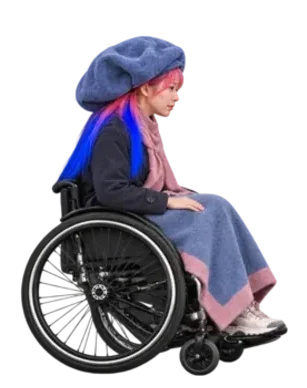
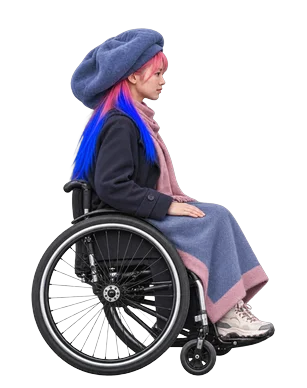
歩行: C002車椅子right-3・C003小学生upright-3を反転なしで生成し直し (R7, #204) (#221)
* 歩行: C002青年車椅子right-3・C003小学生upright-3を反転なしで画像生成し直し (#204)

* 台帳: R7 の2コマ(sha256・来歴・素材更新AUP-225,226)とdocsを更新 (#204)

Changed region(s): [[0.0586, 0.0619, 0.9381, 0.9897]]

diff --git a/docs/ledger/views/content.md b/docs/ledger/views/content.md
@@ -1660,7 +1660,7 @@ uv run python3 scripts/content_ledger_views.py build で更新する。
 | A-886 | C002 | 人物ポーズ候補 | assets/images/characters/C002/walk/C002-adult-wheelchair-walk-left-3.webp | 現存（採否未照合） | 2026-10-27 | 上流 d469045 の現存ファイル。出典: origin/main@d469045:assets/images/characters/C002/walk/C002-adult-wheelchair-walk-left-3.webp。採用判定は出典の明示範囲に限る。 | 0995f3ce73c8e71b04e6316669f28bc790f447a688bb1dfe73c1bbbec61ab8ca |  |
 | A-887 | C002 | 人物ポーズ候補 | assets/images/characters/C002/walk/C002-adult-wheelchair-walk-right-1.webp | 現存（採否未照合） | 2026-10-27 | 上流 d469045 の現存ファイル。出典: origin/main@d469045:assets/images/characters/C002/walk/C002-adult-wheelchair-walk-right-1.webp。採用判定は出典の明示範囲に限る。 | 518be664f96152aecf67e823456eef613bea01ed44de4fe69820945fa795a5a0 |  |
 | A-888 | C002 | 人物ポーズ候補 | assets/images/characters/C002/walk/C002-adult-wheelchair-walk-right-2.webp | 現存（採否未照合） | 2026-10-27 | 上流 d469045 の現存ファイル。出典: origin/main@d469045:assets/images/characters/C002/walk/C002-adult-wheelchair-walk-right-2.webp。採用判定は出典の明示範囲に限る。 | 571a41e14b1c5cffc0f7994bb970c3a86f7fd5acf293ebaadd414c16e05d190c |  |
-| A-889 | C002 | 人物ポーズ候補 | assets/images/characters/C002/walk/C002-adult-wheelchair-walk-right-3.webp | 現存（採否未照合） | 2026-10-27 | 上流 d469045 の現存ファイル。出典: origin/main@d469045:assets/images/characters/C002/walk/C002-adult-wheelchair-walk-right-3.webp。採用判定は出典の明示範囲に限る。 | a36adabc96ee4a20930964c456c049b64f0d6734d5df09359283b3f8bdfc45f3 |  |
+| A-889 | C002 | 人物ポーズ候補 | assets/images/characters/C002/walk/C002-adult-wheelchair-walk-right-3.webp | 現存（採否未照合） | 2026-10-27 | 上流 d469045 の現存ファイル。出典: origin/main@d469045:assets/images/characters/C002/walk/C002-adult-wheelchair-walk-right-3.webp。採用判定は出典の明示範囲に限る。 2026-11-04 Issue #204 R7: 反転なし画像生成。レビュー済み。左向き3の水平反転と一致していたミラー残存を解消し、右向きとして生成し直した(位相の見本=左向き3の手位置、同一性=マスターと右向き1) | b466b072d70ff017e016a699b8585cd52a24fa4fa304bb046b975790eddd00de |  |
 | A-890 | C002 | 人物ポーズ候補 | assets/images/characters/C002/walk/C002-adult-wheelchair-walk-up-1.webp | 現存（採否未照合） | 2026-10-27 | 上流 d469045 の現存ファイル。出典: origin/main@d469045:assets/images/characters/C002/walk/C002-adult-wheelchair-walk-up-1.webp。採用判定は出典の明示範囲に限る。 | d0ea89d84a60f843f2e57a695d9adcba176c9d77c2f69b1888f510625a6d87af |  |
 | A-891 | C002 | 人物ポーズ候補 | assets/images/characters/C002/walk/C002-adult-wheelchair-walk-up-2.webp | 現存（採否未照合） | 2026-10-27 | 上流 d469045 の現存ファイル。出典: origin/main@d469045:assets/images/characters/C002/walk/C002-adult-wheelchair-walk-up-2.webp。採用判定は出典の明示範囲に限る。 | b30e197a18b10720dbce8e0977d0bc87b9617522a20fa1c6ab6138bbc0949249 |  |
 | A-892 | C002 | 人物ポーズ候補 | assets/images/characters/C002/walk/C002-adult-wheelchair-walk-up-3.webp | 現存（採否未照合） | 2026-10-27 | 上流 d469045 の現存ファイル。出典: origin/main@d469045:assets/images/characters/C002/walk/C002-adult-wheelchair-walk-up-3.webp。採用判定は出典の明示範囲に限る。 | 2b11fea50e4bd76bb1eda6fb7efbe93b7cc53a5b9381e4c7757774731cdd37e0 |  |
@@ -1938,7 +1938,7 @@ uv run python3 scripts/content_ledger_views.py build で更新する。
 | A-1164 | C003 | characters | assets/images/characters/C003/walk/C003-elementary-walk-upleft-3.webp | 採用 | 2026-10-30 | 歩行スプライト正本に採用（kako-jun 指示 2026-11-03、Issue #204）。旧パス assets/images/characters/shared/direction-candidates/C003-elementary-upleft-3-method-pilot.webp（候補名 method-pilot）。選択理由: 同一コマの候補はこの1版のみ。 | c349639673da434e11543b69b1fb8800eb404c3770d9553ae6bd194401d423da |  |
 | A-1165 | C003 | characters | assets/images/characters/C003/walk/C003-elementary-walk-upright-1.webp | 採用 | 2026-10-30 | 歩行スプライト正本に採用（kako-jun 指示 2026-11-03、Issue #204）。旧パス assets/images/characters/shared/direction-candidates/C003-elementary-upright-1-method-pilot.webp（候補名 method-pilot）。選択理由: 同一コマの候補はこの1版のみ。 2026-11-04 Issue #204: 左右反転コピーを廃し、右向きとして画像生成し直した(反転なし。独立画像レビューで合格)。位相の見本=元の左斜め、同一性=マスター | edafd0e157dc48acc02cfe0ddfdab1c743b3a579e984512ed9b337e82fbf2dff |  |
 | A-1166 | C003 | characters | assets/images/characters/C003/walk/C003-elementary-walk-upright-2.webp | 採用 | 2026-10-30 | 歩行スプライト正本に採用（kako-jun 指示 2026-11-03、Issue #204）。旧パス assets/images/characters/shared/direction-candidates/C003-elementary-upright-2-method-pilot.webp（候補名 method-pilot）。選択理由: 同一コマの候補はこの1版のみ。 2026-11-04 Issue #204: 左右反転コピーを廃し、右向きとして画像生成し直した(反転なし。独立画像レビューで合格)。位相の見本=元の左斜め、同一性=マスター | 766ace06ffa59cd8e6129640458014113a553c2ea4f71dd49dcb88a2e7b23c61 |  |
-| A-1167 | C003 | characters | assets/images/characters/C003/walk/C003-elementary-walk-upright-3.webp | 採用 | 2026-10-30 | 歩行スプライト正本に採用（kako-jun 指示 2026-11-03、Issue #204）。旧パス assets/images/characters/shared/direction-candidates/C003-elementary-upright-3-method-pilot.webp（候補名 method-pilot）。選択理由: 同一コマの候補はこの1版のみ。 2026-11-04 Issue #204: 左右反転コピーを廃し、右向きとして画像生成し直した(反転なし。独立画像レビューで合格)。位相の見本=元の左斜め、同一性=マスター | 61e4d191d534ddda0a47528e9ba5ba9d7d081a1249435049e3c484b22fcf5e7d |  |
+| A-1167 | C003 | characters | assets/images/characters/C003/walk/C003-elementary-walk-upright-3.webp | 採用 | 2026-10-30 | 歩行スプライト正本に採用（kako-jun 指示 2026-11-03、Issue #204）。旧パス assets/images/characters/shared/direction-candidates/C003-elementary-upright-3-method-pilot.webp（候補名 method-pilot）。選択理由: 同一コマの候補はこの1版のみ。 2026-11-04 Issue #204: 左右反転コピーを廃し、右向きとして画像生成し直した(反転なし。独立画像レビューで合格)。位相の見本=元の左斜め、同一性=マスター 2026-11-04 Issue #204 R7: 反転なし画像生成。レビュー済み。両足が揃った立ち姿から両足が出た歩きに修正した。コマ1との位相差は、斜め後ろ向きのため静止画では限定的(位相の見本=左斜め3、サイズ・ヨー=同形態コマ2、人物=マスター) | 3764cd2825d803c2a5437d56fce5f39402b01e7946482b4bd1875ae9b96e7222 |  |
 | A-1168 | C003 | characters | assets/images/characters/C003/walk/C003-walk-downleft-1.webp | 採用 | 2026-10-30 | 歩行スプライト正本に採用（kako-jun 指示 2026-11-03、Issue #204）。旧パス assets/images/characters/shared/direction-candidates/C003-kindergarten-downleft-1-method-pilot.webp（候補名 method-pilot）。選択理由: 同一コマの候補はこの1版のみ。 | 3c7a156705c7f1e231d58cf94feab5c8413461fac22db8a8b378e6d13ea9a4f2 |  |
 | A-1169 | C003 | characters | assets/images/characters/C003/walk/C003-walk-downleft-2.webp | 採用 | 2026-10-30 | 歩行スプライト正本に採用（kako-jun 指示 2026-11-03、Issue #204）。旧パス assets/images/characters/shared/direction-candidates/C003-kindergarten-downleft-2-method-pilot.webp（候補名 method-pilot）。選択理由: 同一コマの候補はこの1版のみ。 2026-11-04 Issue #204: 垂直平行移動のみ(接地ライン揃え、-9px)、描画・拡縮・反転なし | d1f171d2686e98ddf57421c770de426dbc25115b240763cc24ccbd9dee6b4f60 |  |
 | A-1170 | C003 | 人物ポーズ候補 | assets/images/characters/shared/direction-candidates/C003-kindergarten-downleft-3-method-pilot-v2.webp | 候補 | 2026-10-30 | 不採用（同一コマに採用版あり: C003-kindergarten-downleft-3-method-pilot-v3.webp → 正本 assets/images/characters/C003/walk/C003-walk-downleft-3.webp）。歩行方向候補として元の場所に残置。2026-11-03 Issue #204 | 53a9def72b62dcc09c5370ad40922da29080fb96dddae6b1ff92e5a655c4ea39 |  |

diff --git a/docs/assets-policy.md b/docs/assets-policy.md
@@ -67,7 +67,7 @@
 - 斜め歩きのカメラは人物の向きから独立させる。俯瞰にずれた斜め画像は採用せず、ユーザー指定があれば子どもの目線・水平0°のカメラで、人物だけを地面上で45°回す（2026-10-24）。同方向1×3で頭身・ヨーを合わせ、位相が重なった場合は通過位相の中央コマをカメラ/ヨー/画面内サイズの土台、同年齢・同番号の正面/背面コマを歩行位相、年齢マスターを人物・衣装の正本として個別編集する。個別編集ではframe1とframe3が同じ接地歩幅へ収束しやすいため、3コマを最終キャンバスで比較する。frame3がframe1を反復したら、同年齢・同番号ソースを位相正本にして脚だけ修正する。4×3グリッドと方向別1×3ストリップでヨーまたは位相が2コマ続けて崩れた場合は、採用済みの同方向土台・同番号位相ソース・年齢masterを使う1枚ずつの生成へ切り替える。脚だけの修正でヨーが正面へ戻った場合は、脚の位相を固定して頭・首・胴だけヨーを戻す。位相はrawだけでなく最終サイズの白/暗色合成で判定し、特に後ろ斜めでは縮小後の靴間隔で通過位相がストライドに見えないか確認する。靴底が見える脚は画面左右でなく参照の解剖学的左右と支持脚で指定する。alpha=0画素のRGBはプレビューで黒く見える場合があるため、alpha>5 bboxと白/暗色合成で可視背景を判定する。Issue #155でC001幼稚園・小学生通常歩行の斜め12枚ずつが完了。
 - 複数参照の個別編集では全身のヨー土台と位相見本を明示的にファイル指定し、会話中の直近画像や脚部クロップを全身の編集元として誤用しない。各画像の役割をプロンプトに割り当て、生成直後に全身・画風・向きが保たれたか確認する。frame3の接地位相がframe1と似る場合、正本が両足接地なら後ろ足の踵も接地させて靴底を見せず、frame1の上がった踵・frame2の脚の交差と明確に区別する。参照位相への一致とコマ間の区別は別々にレビューする。
 - フィールドの歩き: 幼稚園期（スノーボードウェア）は `assets/images/characters/Cxxx/walk/Cxxx-walk-{dir}-{1,2,3}.webp`（`dir`: `down`, `left`, `right`, `up`, `downleft`, `downright`, `upleft`, `upright`）、小学生は `Cxxx-elementary-walk-{dir}-{1,2,3}.webp`。戦闘ポーズの小学生版は `poses/Cxxx-elementary-{pose}.webp`。事故後の主人公（オットン/ナム）の車椅子歩きは小学生・中学生・青年・壮年それぞれ `Cxxx-{elementary,teen,adult,midlife}-wheelchair-walk-{dir}-{1,2,3}.webp`。C001の4段階は各8方向×3コマを揃えた。各方向3コマは仮の仕様で、name-name のフィールド移動の仕様が決まったら合わせる。
-- 右斜めの生成状況（2026-11-04・Issue #204）: オットン（C001）・ナム（C002）・シャー（C003）・ペー子（C004）の右斜め（downright/upright）は、左右反転なしで右向きとして画像生成済み（C001・C002 は幼稚園・小学生と車椅子、C003・C004 は幼稚園・小学生・中学生・青年）。反転コピーは残っていない。
+- 右斜めの生成状況（2026-11-04・Issue #204）: オットン（C001）・ナム（C002）・シャー（C003）・ペー子（C004）の右斜め（downright/upright）は、左右反転なしで右向きとして画像生成済み（C001・C002 は幼稚園・小学生と車椅子、C003・C004 は幼稚園・小学生・中学生・青年）。反転コピーは残っていない。最終監査の指摘のうち C002 青年車椅子 right-3 と C003 小学生 upright-3 は R7 で同じ方式（反転なし）に生成し直した。C003 幼稚園 upleft-3・upright-3 は旧版と実質同じで改善にならず見送り（元のファイルのまま。Issue #204）。
 - 歩行の3コマの意味（2026-11-03・Issue #204）: 1=一方の足前、2=両足揃い（通過）、3=逆の足前。正面・背面で1と3が同じ足だと歩いて見えない。左右反転による代用は行わない（顔の左右非対称が入れ替わるため。2026-11-04 kako-jun）。name-name は #59 の cycle [0,1,2,1] で再生する。
 - 歩行スプライトの採用状態（2026-11-03・Issue #204）: `shared/direction-candidates/` にあった歩行候補は、各コマの1版を `Cxxx/walk/Cxxx[-年齢]-walk-{dir}-{1,2,3}.webp`（幼稚園は年齢省略）へ全て取り込み済み（C003/C004 の幼稚園・小学生の斜め4方向、中学生、青年。計126コマ）。採用は品質の保証でなく、品質の総点検と直しは別作業。同一コマに複数版があるときは標準サフィックス（`method-pilot`/`resume`）のうち版番号が最大を採る（C004 青年だけは最終サイズ一括正規化の `norm-v1` 24コマを一括採用）。選択理由と不採用版は素材台帳（`docs/ledger/素材.yaml`）の各行の来歴が正本。不採用の別版・レビュー用画像は `direction-candidates/` に残す。今後この置き場に新しい候補を足す場合も、採用したら同じ手順で正本へ移す。実ファイルが無い方向は左右反転で補わず（顔の左右非対称が入れ替わるため。2026-11-04 kako-jun）、`scripts/walk_viewer.py` では「なし(欠損)」と表示する。C003/C004 の壮年は作らない。
 - 歩行の接地ライン揃え(2026-11-04・Issue #204): 3コマの下端(alpha>20)のばらつきが8px以上のセットは、画像全体の垂直平行移動のみで揃える(反転・描画・拡縮なし。頭頂差が移動前または24pxのうち大きい方を超えない範囲)。頭と足の両立しないセットは残差を許す。

diff --git a/docs/INDEX.md b/docs/INDEX.md
@@ -93,7 +93,7 @@
 | [採用要素](ledger/採用要素.yaml) | 6 | 採用画像から次の絵へ継承する要素。 | 採用要素ID / 素材ID / 元MAP / 要素 / 内容 / 継承先MAP / 継承方法 / 状態 / 確認語 / 決定参照 / 特徴(自由記述) |
 | [素材](ledger/素材.yaml) | 1324 | 素材（画像・マスクなど。没も行で保持）。 | 素材ID / 所有者ID / 種別 / パス / 状態 / 日付 / 来歴 / sha256 / 特徴(自由記述) |
 | [素材共有](ledger/素材共有.yaml) | 3 | 所有者以外の人物・敵・召喚獣が同一素材を利用する明示的な関係。素材行を複製せず、出典を保持する。 | 共有ID / 利用者ID / 素材ID / 根拠 |
-| [素材更新](ledger/素材更新.yaml) | 221 | 元の素材移行SHAを保持したまま後続の上流更新を記録するSHA連鎖。出典commitと出典パスを必須とする。 | 更新ID / 素材ID / パス / 旧sha256 / 新sha256 / 出典commit / 出典パス / 根拠 |
+| [素材更新](ledger/素材更新.yaml) | 223 | 元の素材移行SHAを保持したまま後続の上流更新を記録するSHA連鎖。出典commitと出典パスを必須とする。 | 更新ID / 素材ID / パス / 旧sha256 / 新sha256 / 出典commit / 出典パス / 根拠 |
 | [素材メタデータ](ledger/素材メタデータ.yaml) | 7 | 上流の画像用JSONを安全化してYAML正本に変換した出典とハッシュ。原文の秘匿値は保持しない。 | メタデータID / パス / 所有者ID / 原文sha256 / 安全化sha256 / 出典commit / 安全化方針 |
 | [素材メタデータ値](ledger/素材メタデータ値.yaml) | 704 | 画像用JSONをJSONポインタ・型・値へ分解したYAML正本。JSONは再構築して生成する。 | メタデータID / JSONポインタ / 型 / 値 |
 | [生成物](ledger/生成物.yaml) | 26 | 派生物（JSON）の登録と鮮度検査用ハッシュ。 | 生成物ID / 種別 / パス / 元の表 / 入力ハッシュ / 生成日時 / 再生成コマンド / 備考 |
